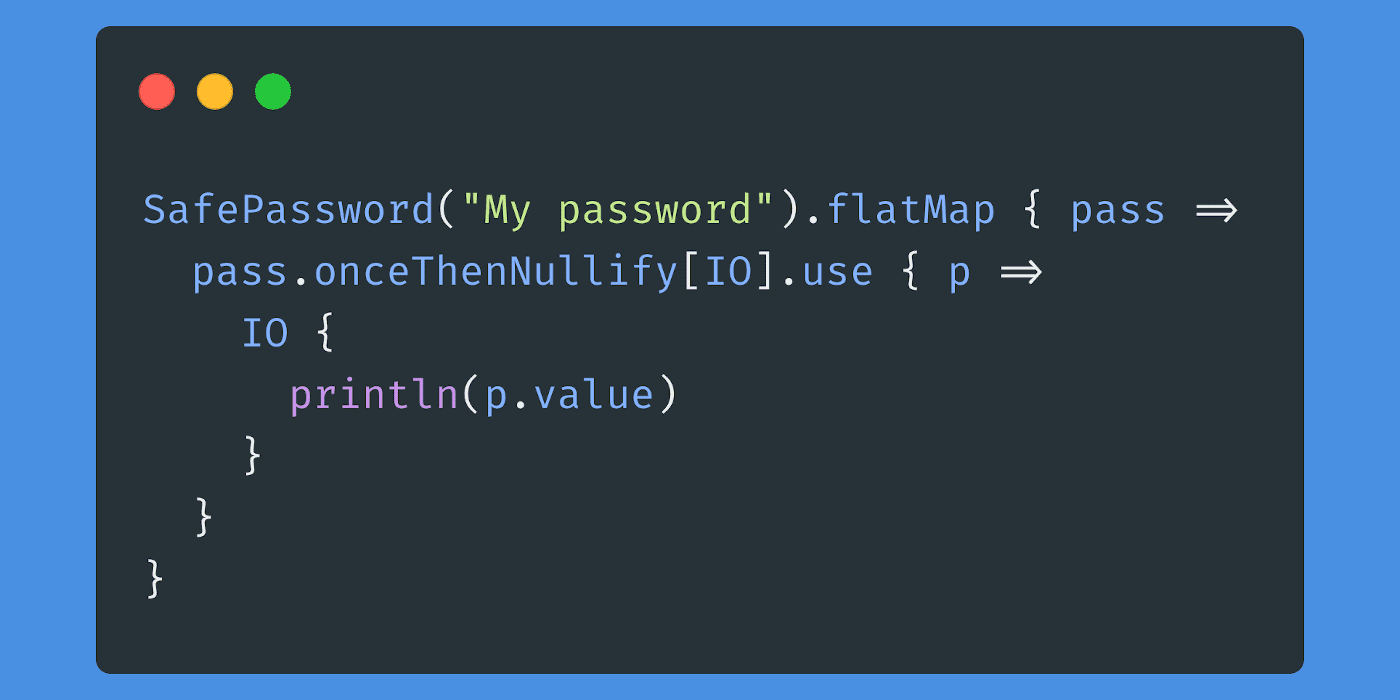
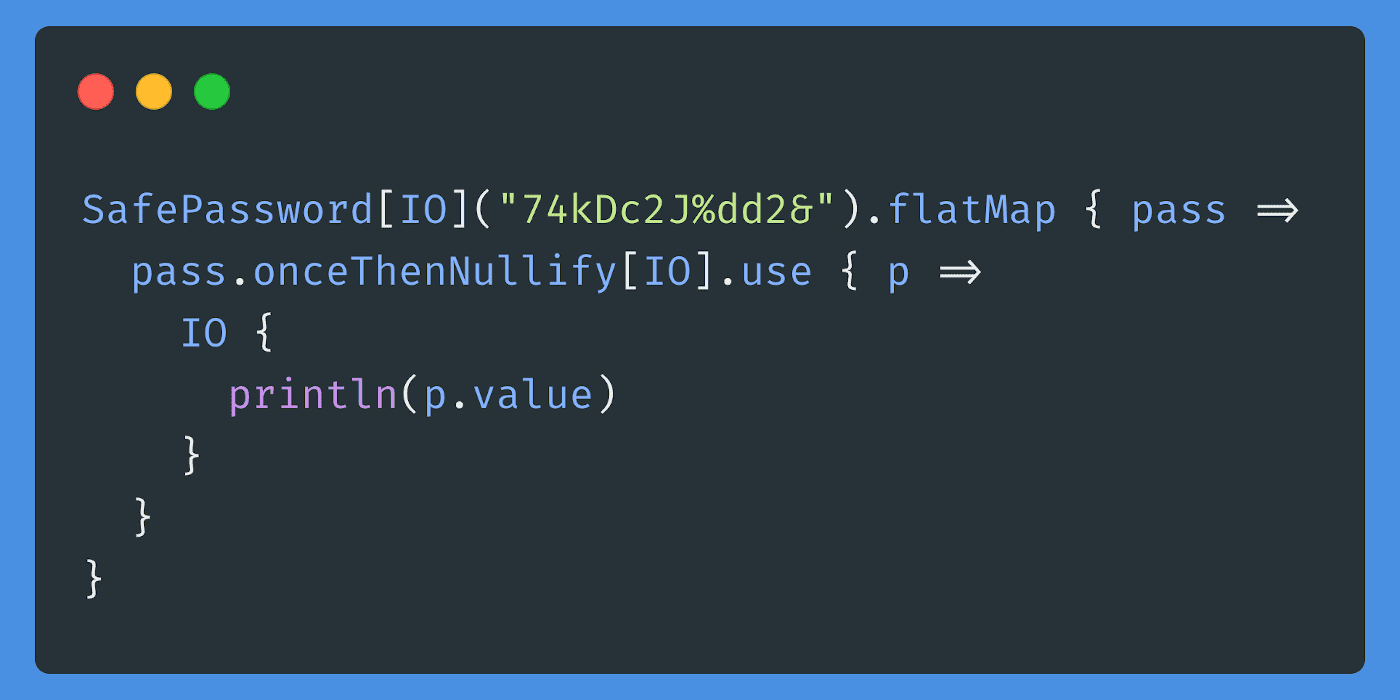
Updates

diff --git a/_snippets/2020-08-27-safe-password.scala.md b/_snippets/2020-08-27-safe-password.scala.md
@@ -74,7 +74,7 @@ object SafePassword {
 And usage:
 
 ```scala
-SafePassword("My password").flatMap { pass =>
+SafePassword[IO]("74kDc2J%dd2&").flatMap { pass =>
   pass.onceThenNullify[IO].use { p =>
     IO {
       println(p.value)
